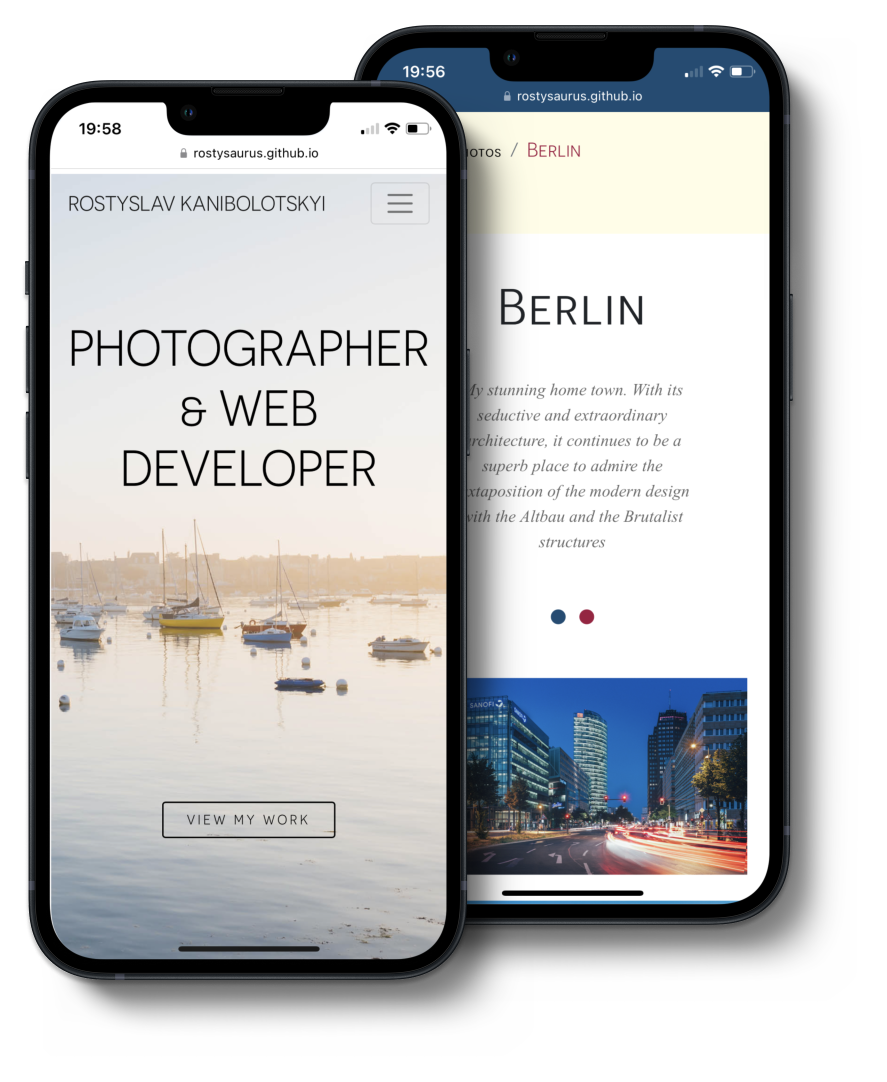
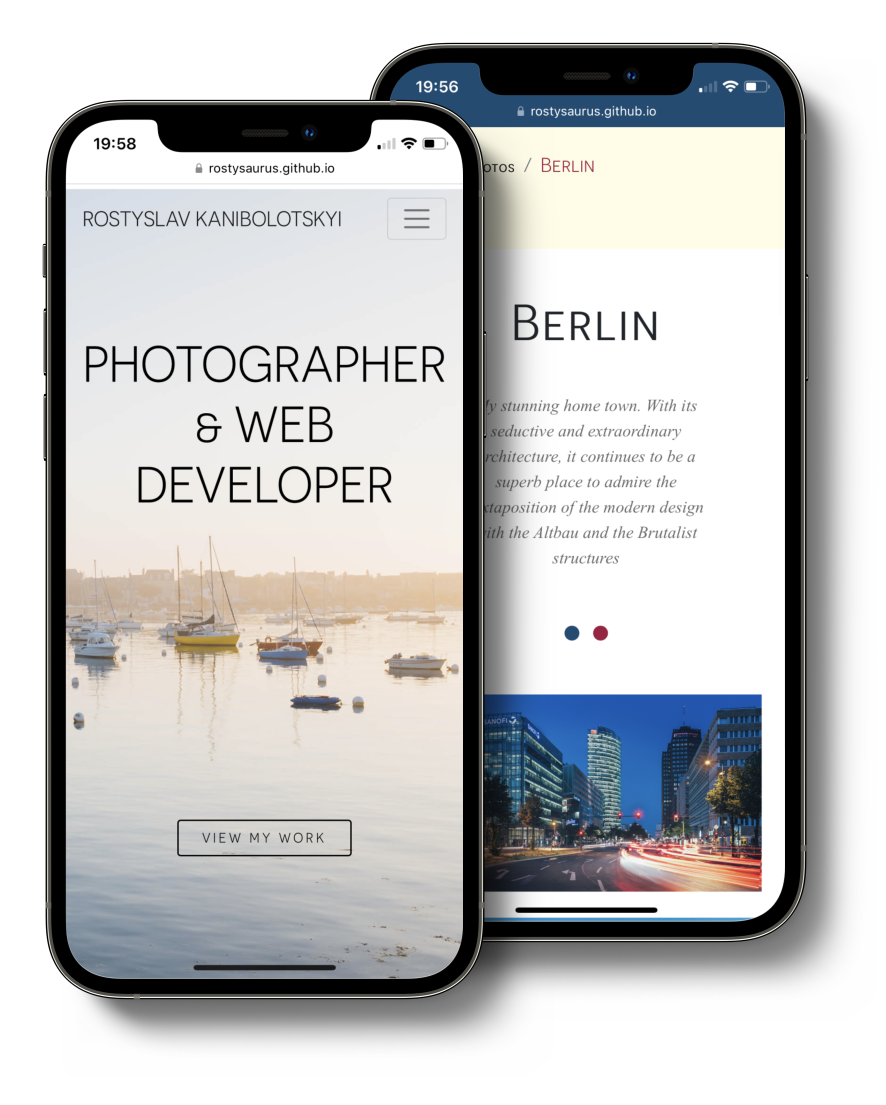
Portfolio card styles changed

diff --git a/components/works/works.module.scss b/components/works/works.module.scss
@@ -34,6 +34,7 @@
       transition: all 1s ease-out;
 
       .container {
+        height: 100%;
         width: 100vw;
         display: flex;
         align-items: center;
@@ -50,6 +51,7 @@
           display: flex;
           flex-direction: column;
           justify-content: space-around;
+          align-items: center;
 
 
             .topContainer {
@@ -58,22 +60,11 @@
               // flex-direction: column;
               justify-content: space-between;
               align-items: center;
-              padding: 15px;
+              padding: 16px;
               display: flex;
               align-items: center;
+              // border-bottom: dotted #c1b5ff;
               // justify-content: center;
-
-              .left {
-                flex: 1;
-              }
-
-              h2 {
-                color: white;
-              }
-
-              p {
-                color: #c1b5ff;
-              }
 
               .skillsContainer{
                 display: flex;
@@ -81,6 +72,7 @@
                 align-items: center;
                 flex-wrap: wrap;
                 gap: 16px;
+                // padding: 16px;
               }
 
                 img {
@@ -96,28 +88,36 @@
               p {
                 font-size: 13px;
               }
-            }
 
-            .actions {
-              display: flex;
-              justify-content: center;
-              align-items: center;
-              padding: 15px;
+              .icon {
+                background-color: #8576ef;
+                color: white;
+                padding: 16px;
+                border-radius: 10px;
+              }
 
-              button {
-                flex: 1;
+              h2 {
+                color: white;
+                font-size: 30px;
+              }
+
+              p {
+                color: #c1b5ff;
               }
             }
 
-
-          .right {
-            flex: 2;
-
-            img {
-              // object-fit: fill;
-              // border-radius: 10px;
+            .picture {
+              flex: 2;
             }
-          }
+
+            .description {
+              text-align: center;
+              p {
+                font-weight: 100;
+                color: white;
+              }
+            }
+
         }
       }
     }

diff --git a/components/works/Works.jsx b/components/works/Works.jsx
@@ -38,26 +38,25 @@ export default function Works() {
             <div className={classes.container} key={project.id}>
             <div className={classes.item}>
                 <div className={classes.topContainer}>
-                  <div className={classes.left}>
-                    <h2>{project.type === "Fullstack" ? <FontAwesomeIcon icon={faLayerGroup} /> : <FontAwesomeIcon icon={faWandMagicSparkles} />} {project.title} </h2>
-                    <p>{project.description}</p>
-                    <span className={classes.skillsContainer}>
+                <div className={classes.icon}>
+                  {project.type === "Fullstack" ? <FontAwesomeIcon icon={faLayerGroup} /> : <FontAwesomeIcon icon={faWandMagicSparkles} />}
+                </div>
+                <h2> {project.title} </h2>
+                <span className={classes.skillsContainer}>
                       {project.tags.map((tag) => (
                         fullstackSkills.map((skill) => (
                           tag === skill.title ? <Image key={skill.id} className={classes.skillImage} src={skill.image} alt="" width={25} height={25}/> : null
                         ))
                       ))}
                     </span>
-                  </div>
-                    <div className={classes.right} style={{position: 'relative'}}>
-                    <Image src={project.image} alt={project.image} width="50%" height="50%" layout="responsive" objectFit="contain"/>
+
                 </div>
-                  </div>
-{/*
-                  <div className={classes.actions}>
-                    <Button variant="contained" color="primary">Code</Button>
-                    <Button variant="contained" color="primary">Source</Button>
-                    </div> */}
+                  <div className={classes.description}>
+                  <p>{project.description}</p>
+                </div>
+                <div className={classes.picture} style={{position: 'relative', width: "50%", height: "50%"}}>
+                    <Image src={project.image} alt={project.image} width="100%" height="100%" layout="responsive" objectFit="contain"/>
+                </div>
 
             </div>
         </div>

diff --git a/components/data/data.js b/components/data/data.js
@@ -33,14 +33,14 @@ export const allPortfolio = [
     type: "Frontend",
   },
   {
-    title: 'Dice Game',
-    description: "One of the most difficult gamnes I built when begginning my coding journey.",
-    image: '/assets/mockups/game.png',
-    tags: ['JavaScript', 'HTML', 'CSS'],
+    title: 'Help Local',
+    description: "This app is desifned for Ukrainian refugees to help each other get by in their new countries. It's a hub where peopple can support each other in these difficult circumstances.",
+    image: '/assets/mockups/help_local.png',
+    tags: ["Next.js", "Node.js", "MongoDB", "React", "Sass", 'HTML', 'CSS'],
     source: 'https://rostysaurus.github.io/Dice-Game/',
     visit: 'https://github.com/Rostysaurus/Dice-Game',
     id: 4,
-    type: "Frontend",
+    type: "Fullstack",
   }
 ]
 

diff --git a/pages/_document.js b/pages/_document.js
@@ -8,6 +8,7 @@ class MyDocument extends Document {
         <Head>
         <link href="https://fonts.googleapis.com/css2?family=Roboto:ital,wght@0,100;0,300;0,400;0,500;0,700;0,900;1,400&display=swap" rel="stylesheet"></link>
         <link href="https://fonts.googleapis.com/css2?family=Courier+Prime:wght@400;700&display=swap" rel="stylesheet"></link>
+        <link href="https://fonts.googleapis.com/css2?family=Montserrat:wght@100;200;400;800&display=swap" rel="stylesheet"></link>
         </Head>
         <body>
           <Main />

diff --git a/styles/globals.scss b/styles/globals.scss
@@ -4,7 +4,7 @@ html,
 body {
   padding: 0;
   margin: 0;
-  font-family: 'Roboto', sans-serif;
+  font-family: 'Montserrat', sans-serif;
 }
 
 a {
